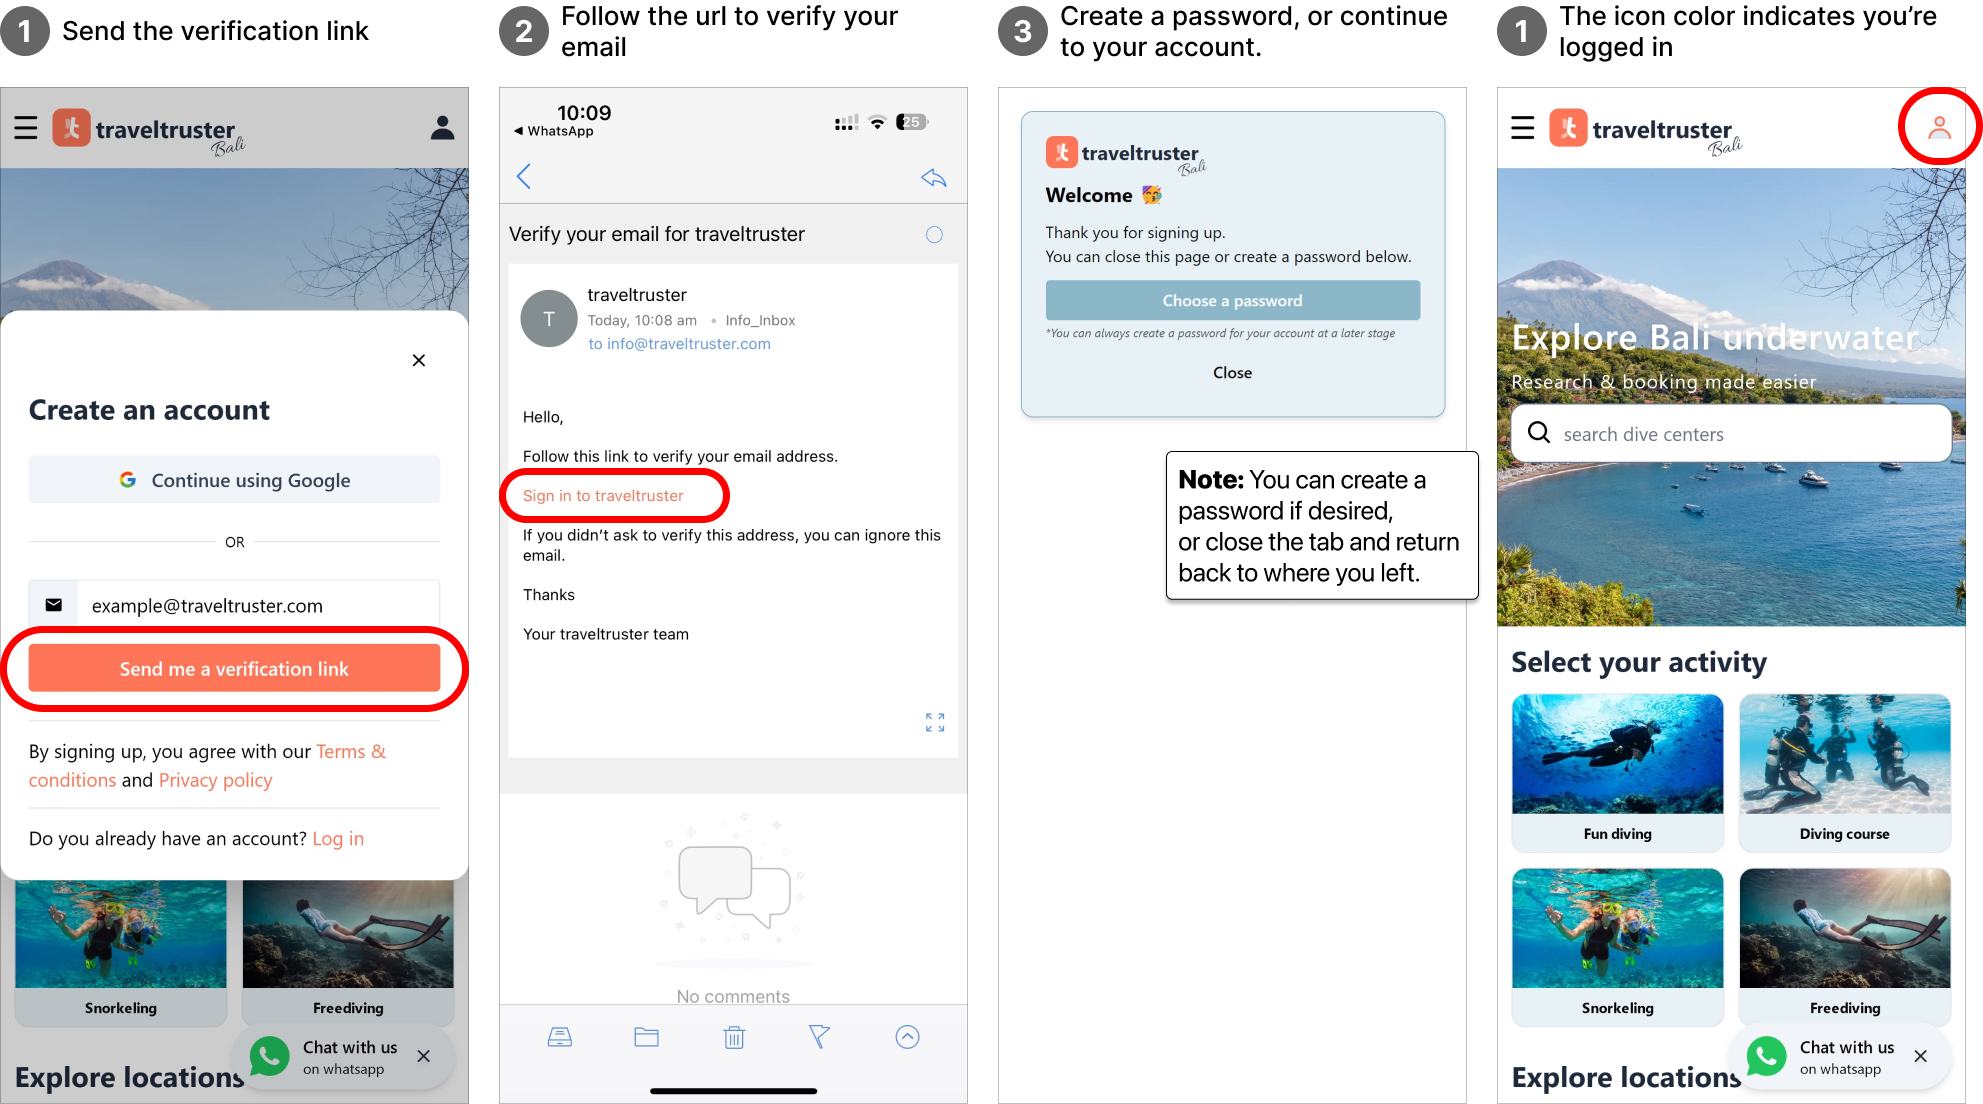
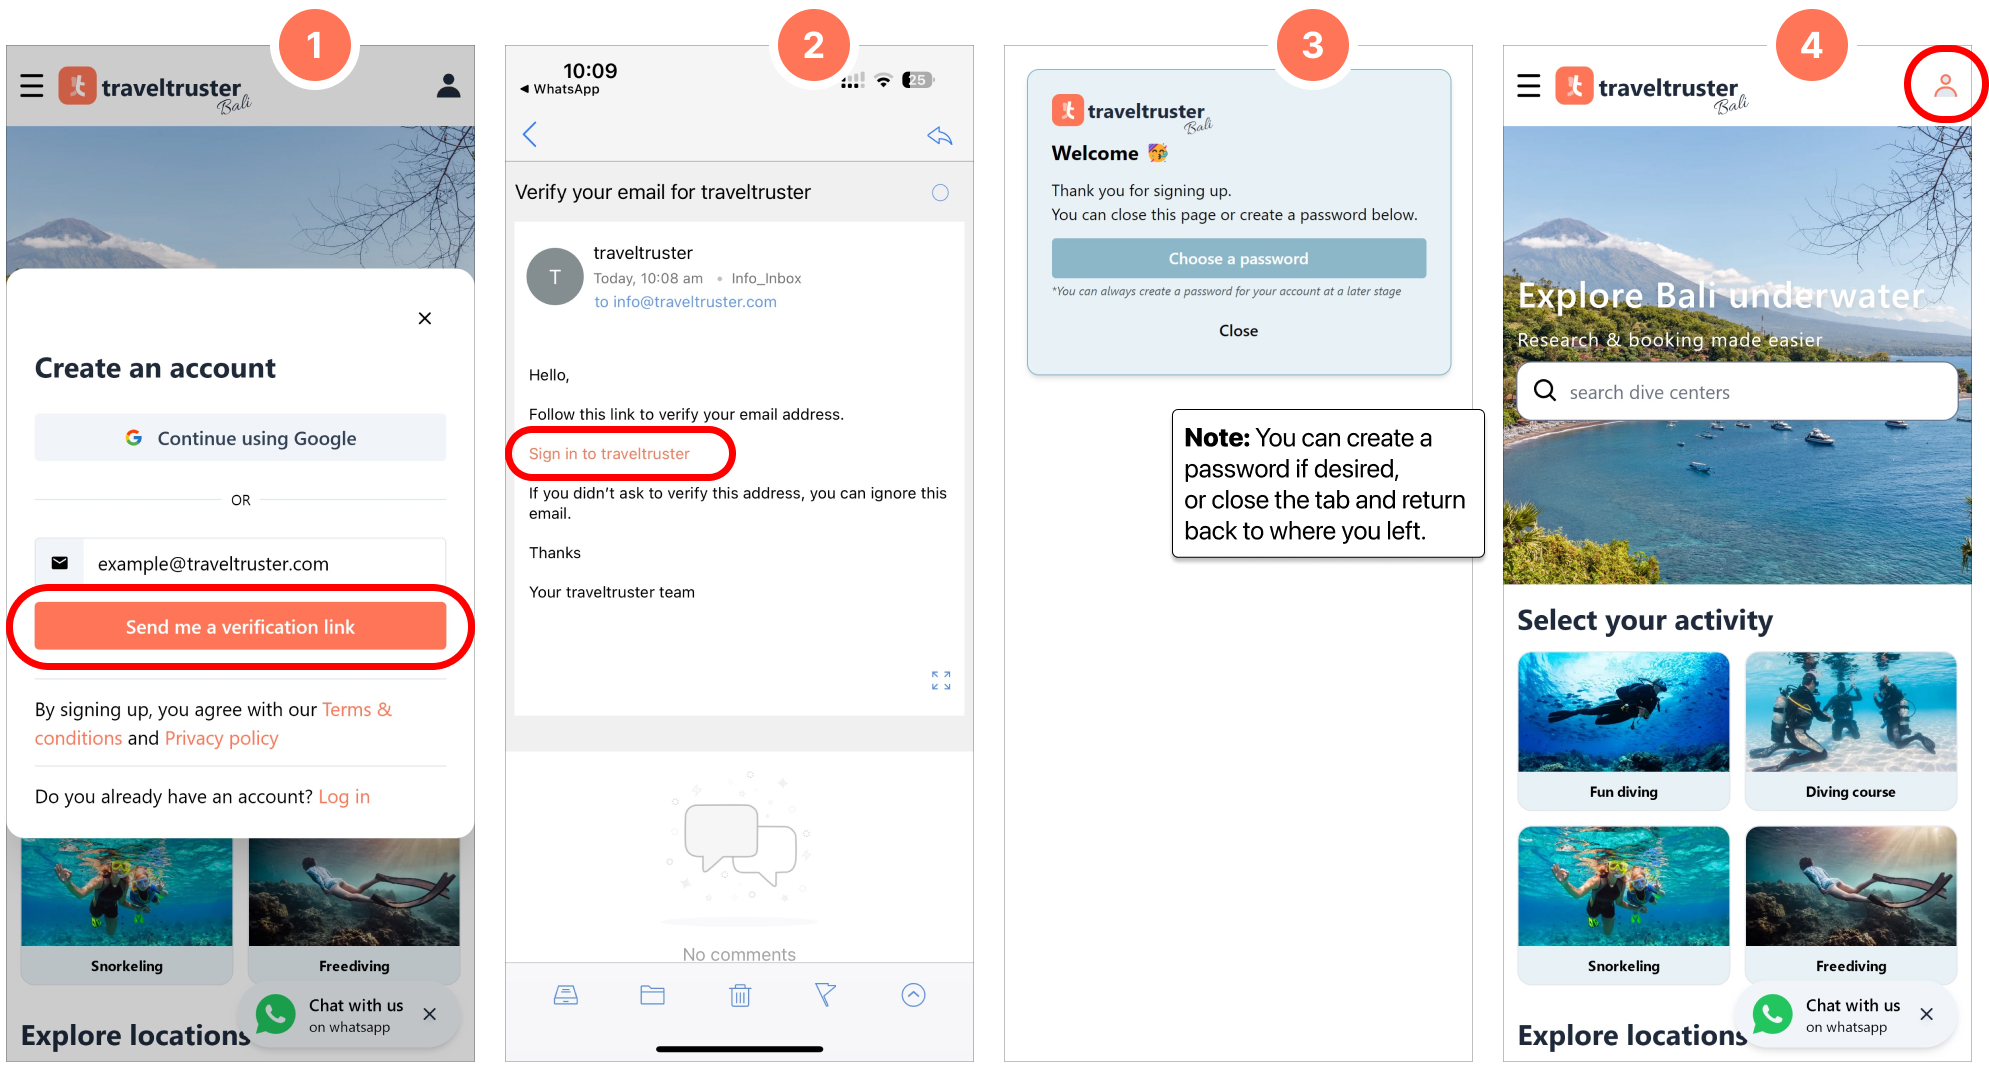
Updated images login page

diff --git a/diversdesk/src/content/docs/user_manual/login.md b/diversdesk/src/content/docs/user_manual/login.md
@@ -13,9 +13,14 @@ You can create an account through a secure email verification link, or through a
 
 ### 1. Email verification link
 Signing up can be done through the sign-up button on [traveltruster.com](https://www.traveltruster.com/?modal=account&flow=signup) or, for Diversdesk white-label users, via the personal URL that we've provided to you.<br>
-The 'Send me a verification link' button will trigger an email with a verification link to the email address you provided in the email input field.
 
-![Create an account through a verification email link](/images/Create_an_account_using_verification_email.jpg)
+The 'Send me a verification link' button will trigger an email with a verification link to the email address you provided in the email input field.
+1. **1.** Send the verification link.
+2. **2.** Follow the url to verify your email.
+3. **3.** Create a password, or continue to your account.
+4. **4.** The icon color indicates you’re logged in.
+
+![Create an account through a verification email link](/images/Create_an_account_using_verification_email.png)
 
 Verifying your email will automatically log you into your account. Once logged in, you can access your company page through the hamburger menu in the top-left corner.
 
@@ -26,8 +31,16 @@ Your company profile and connected pages will only show once your email is linke
 
 ### 2. Google 
 Alternatively, you can sign up using your Google account.
+1. **1.** Sign up through your google account.
+2. **2.** Select the desired Google account.
+3. **3.** You are now logged into your account.
+4. ***4.** Pls press the 'Continue Using Google'button a 2nd time if your browser blocks pop-ups.* 
 
-![Create an account through google](/images/Create_an_account_through_Google.jpg)
+![Create an account through google](/images/Create_an_account_through_Google.png)
+
+:::note[Note]
+It occasionally happens that pop-ups are blocked in your browser. Pressing the button a second time usually resolves this issue. If the problem persists after the second attempt, please get in touch with us.
+:::
 
 ## Login to your account
 To login, you can visit [traveltruster.com](https://www.traveltruster.com/?modal=account&flow=signin) or, for Diversdesk white-label users, via the personal URL that we've provided to you, and select the login button for desktop or the profile icon on mobile phone.
@@ -37,17 +50,26 @@ From there you can follow the prompt, and you'll be led to your account.
 
 ### 1. Email verification link
 Experience a secure passwordless login that sends you a unique and secure login URL. This URL can be opened from the device you are attempting to log in with or any other device where you can access your email
+1. **1.** Send the verification link
+2. **2.** Follow the url to verify your email
+3. **3.** You are logged in and this newly opened tab can be closed
+4. **4.** The icon color indicates you’re logged in
 
-![Create an account through a verification email link](/images/Login_with_verification_email.jpg)
+![Create an account through a verification email link](/images/Login_with_verification_email.png)
 
 ### 2. Google 
 Through an exisiting google account you can easily and secure login without the need to create a login.
+1. **1.** Sign up through your google account.
+2. **2.** Select the desired Google account.
+3. **3.** You are now logged into your account.
+4. ***4.** Pls press the button a 2nd time if your browser blocks pop-ups.*
 
-![Login through google](/images/Login_through_google.jpg)
+![Login through google](/images/Login_through_google.png)
 
 ### 3. Password 
 You can establish a password for the conventional login method, ensuring seamless access across multiple devices. Please ensure the use of a robust password to enhance the security of your account.
-![Create or reset your password](/images/reset_password.jpg)
+
+![Create or reset your password](/images/reset_password.png)
 
 
 
